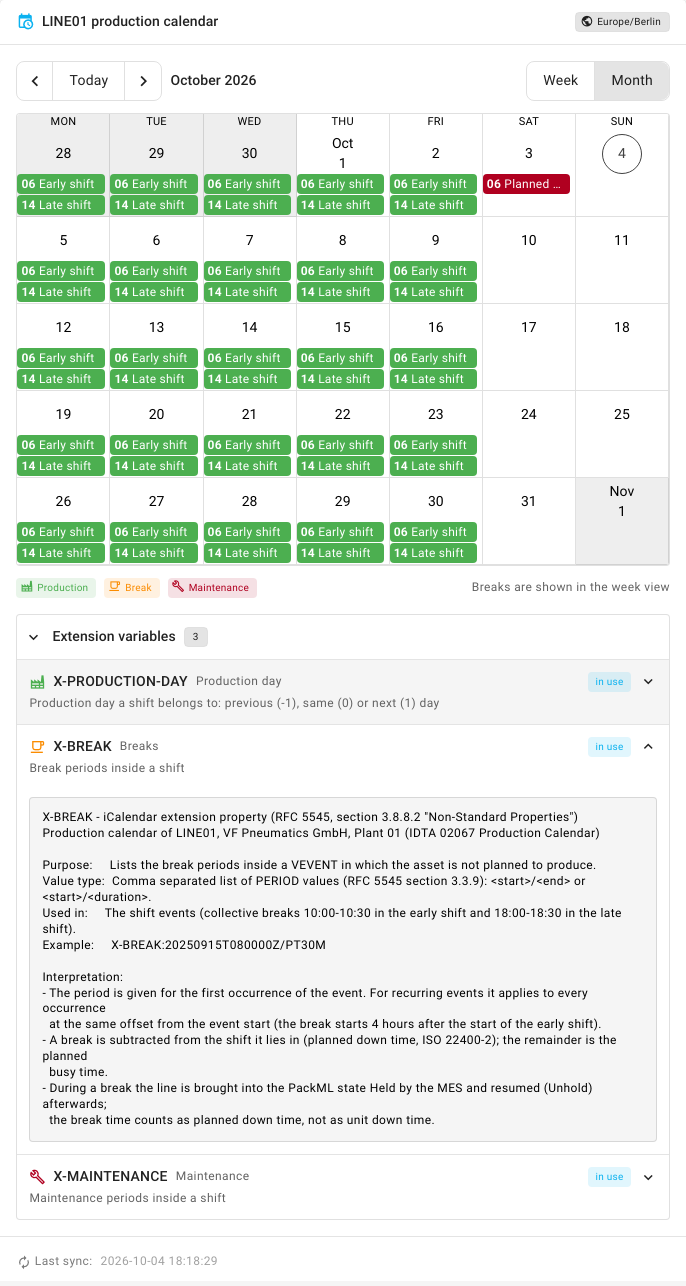
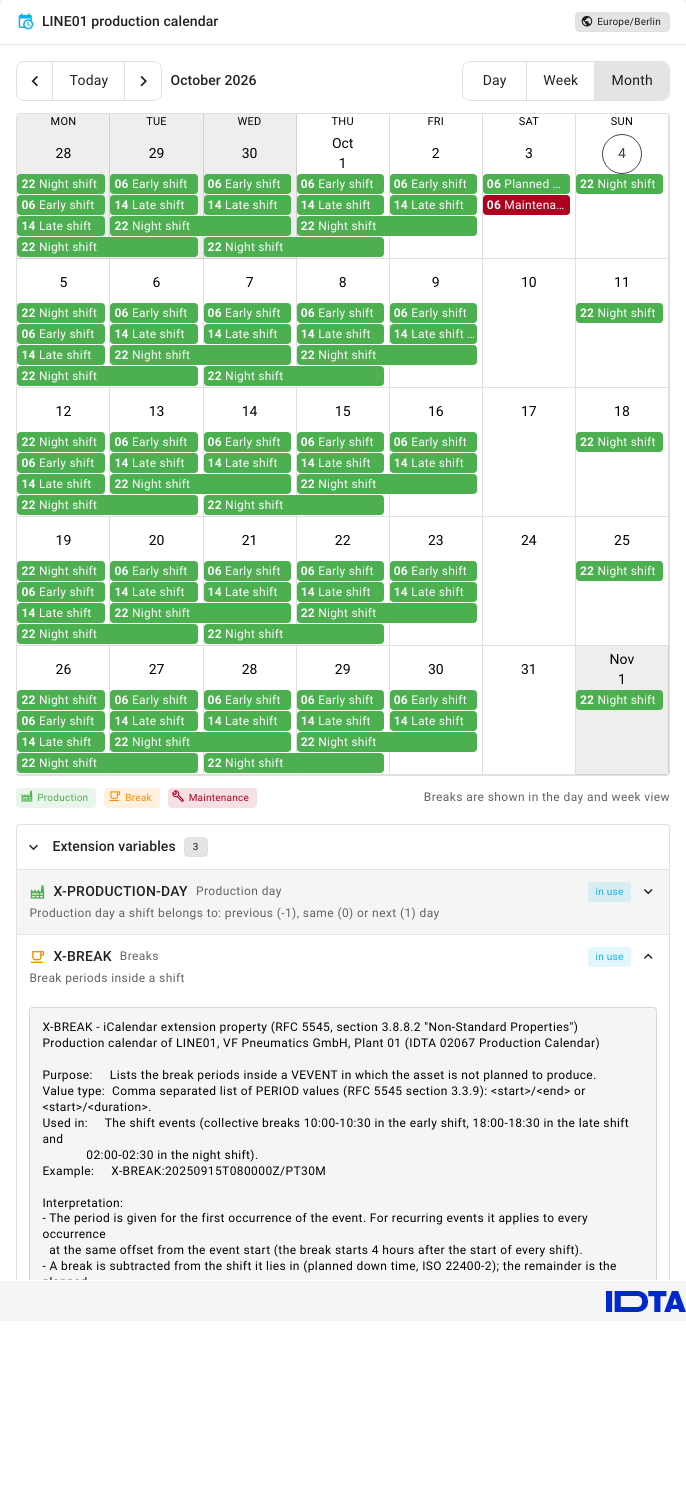
docs: describe the day view and production days of the Production Calendar plugin

diff --git a/docs/source/content/user_documentation/basyx_components/web_ui/features/plugins/production_calendar.md b/docs/source/content/user_documentation/basyx_components/web_ui/features/plugins/production_calendar.md
@@ -12,22 +12,24 @@ This plugin is activated when a Submodel has the following semantic ID:
 
 ## Feature Overview
 
-The Production Calendar plugin visualizes Submodels based on the IDTA Submodel Template *Production Calendar* (IDTA 02067). The Submodel stores the calendar as an iCalendar file (RFC 5545, `.ics`). The plugin loads this file, expands its events (including recurring ones) and shows them in a week or month view. Below the calendar, the specification extension variables that give the `X-` properties of the file their meaning are listed.
+The Production Calendar plugin visualizes Submodels based on the IDTA Submodel Template *Production Calendar* (IDTA 02067). The Submodel stores the calendar as an iCalendar file (RFC 5545, `.ics`). The plugin loads this file, expands its events (including recurring ones) and shows them in a day, week or month view. Below the calendar, the specification extension variables that give the `X-` properties of the file their meaning are listed.
 
-All times are shown as wall-clock time of the time zone of the calendar (for example `Europe/Berlin`), independent of the time zone of the browser. The time zone is shown as a badge in the header. The current day and, in the week view, the current time are marked, also in the time zone of the calendar.
+All times are shown as wall-clock time of the time zone of the calendar (for example `Europe/Berlin`), independent of the time zone of the browser. The time zone is shown as a badge in the header. The current day is marked and, in the day and week view, the current time, also in the time zone of the calendar.
 
-```{figure} ./images/production_calendar_week.png
+```{figure} ./images/production_calendar_day.png
 ---
 width: 100%
-alt: Production Calendar Plugin, week view
-name: production_calendar_plugin_week
+alt: Production Calendar Plugin, day view
+name: production_calendar_plugin_day
 ---
-Production Calendar Plugin in the week view
+Production Calendar Plugin in the day view: the three shifts of a production day with their breaks
 ```
 
 ## Key Features
 
-- **Week and month view**: Switch between both views with the toggle in the upper right corner. The arrows and *Today* navigate through time. The week view starts on Monday and shows only the hours in which events occur
+- **Day, week and month view**: Switch between the views with the toggle in the upper right corner. The arrows navigate through time, *Today* jumps to the production day that is running now. The plugin opens in the day view. Selecting a date in the week or month view opens that day. The week view starts on Monday and shows only the hours in which events occur
+- **Day view as timeline**: Shows the shifts of one production day as bars on a timeline (similar to a Gantt chart), one row per shift with its breaks and maintenance periods, and a row *Planned time* that combines all rows without overlaps. The current time is marked by a line
+- **Planned times**: Above the timeline the planned operating time (all shifts), the breaks, the maintenance and the planned busy time (operating time without breaks and maintenance, as used for KPIs such as in ISO 22400-2) of the production day are shown
 - **Shifts, breaks and maintenance**: Shifts are shown in green. Break periods (orange) and maintenance periods (red) are drawn inside the shift they belong to. A legend below the calendar lists the kinds that occur
 - **Recurring events**: Recurrence rules (`RRULE`, for example *every weekday* or *first Saturday of the month*), exception dates (`EXDATE`, for example public holidays), single changed occurrences (`RECURRENCE-ID`), `RDATE`, `DURATION` and all-day events are supported
 - **Time zones**: Events with a `TZID` (and the embedded `VTIMEZONE`), in UTC or without a time zone (floating) are displayed correctly, also across the change to and from daylight saving time
@@ -56,7 +58,7 @@ Details of an event
 
 1. Navigate to a Submodel with the Production Calendar semantic ID in the AAS Treeview
 2. Open the **Visualization** tab
-3. Switch between **Week** and **Month** and move through the calendar with the arrow buttons. Use **Today** to return to the current date
+3. The plugin opens in the **Day** view of the production day that is running now. Switch to **Week** or **Month** and move through the calendar with the arrow buttons. Use **Today** to return to the current production day
 4. Select an event to see its details
 5. Expand an entry of **Specification Extension Variables** to read the specification of the property
 
@@ -100,12 +102,25 @@ The plugin follows the event model of the IDTA template:
 
 The periods of `X-BREAK` and `X-MAINTENANCE` are given for the first occurrence of the event. For recurring events they apply to every occurrence at the same offset from its start. If a period covers the whole event (for example a maintenance window that lasts as long as the event), only the period is shown, as one event with the name and details of the original event.
 
-The month view shows shifts and maintenance. Breaks are shown in the week view and in the details of the shift.
+The month view shows shifts and maintenance. Breaks are shown in the day and week view and in the details of the shift.
 
 Calendars that do not follow the template are still displayed: An event with `X-BREAK:TRUE` or `X-MAINTENANCE:TRUE`, or with a category containing *break*, *pause*, *maintenance* or *service*, is shown as a break or maintenance event of its own. Events with the category *production* or *shift* are shown as shifts, all-day events without any of these hints as other (grey).
 
 ```{note}
 The template names the variables `X-BREAK`, `X-PRODUCTION-DAY` and `X-MAINTENANCE` in its text and `X_BREAK`, `X_PRODUCTION_DAY` and `X_MAINTENANCE` in its tables. The plugin accepts both spellings.
+```
+
+### Production Day
+
+`X-PRODUCTION-DAY` assigns a shift to a production day relative to the calendar day the shift ends on: `0` means the same day, `1` the following and `-1` the previous production day (an event that ends exactly at midnight counts for the day it lies in). The day view shows all shifts of a production day. A night shift from Sunday 22:00 to Monday 06:00 with the value `0` therefore appears in the day view of Monday, together with the early and the late shift of Monday, and the timeline of that day starts on Sunday at 22:00. Without `X-PRODUCTION-DAY` the value `0` is assumed.
+
+```{figure} ./images/production_calendar_week.png
+---
+width: 100%
+alt: Production Calendar Plugin, week view
+name: production_calendar_plugin_week
+---
+Week view: shifts with their breaks, a shortened late shift on Friday and the night shift that starts on Sunday evening
 ```
 
 ## Limitations

diff --git a/docs/source/content/user_documentation/basyx_components/web_ui/features/plugin_mechanism.md b/docs/source/content/user_documentation/basyx_components/web_ui/features/plugin_mechanism.md
@@ -73,7 +73,7 @@ The BaSyx AAS Web UI includes a growing list of plugins for various IDTA Submode
 **[Production Calendar](plugins/production_calendar.md)**
 
 - **Semantic ID**: `https://admin-shell.io/idta/SubmodelTemplate/ProductionCalendar/1/0`
-- Displays the iCalendar (`.ics`) file of a Production Calendar Submodel in a week and month view
+- Displays the iCalendar (`.ics`) file of a Production Calendar Submodel in a day (timeline), week and month view
 - Shows shifts with their break and maintenance periods (`X-BREAK`, `X-MAINTENANCE`, `X-PRODUCTION-DAY`) including recurring events, exception dates and time zones
 - Lists the specification extension variables with their specification texts
 
